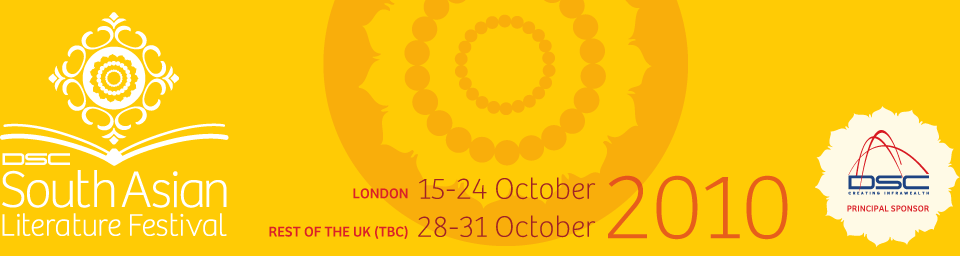
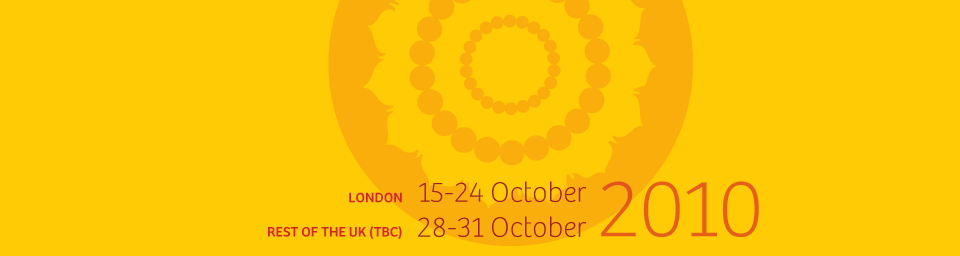
header updated pre-tweet count addition

diff --git a/salf/style/css/layout.css b/salf/style/css/layout.css
@@ -163,15 +163,17 @@ h1, h2, h3, h4,h5,h6{
 
 #header{
 	height: 265px;
+	width: 960px;
 	padding: 0;
 	border-bottom: 1px white solid;
+	background: url('../images/header.png') no-repeat;
+	_background: url('../images/header-IE.png') no-repeat;
 }
 #header h1{
 	float: left;
-	background: url('../images/header.png') no-repeat;
-	_background: url('../images/header-IE.png') no-repeat;
+	
 	height: 256px;
-	width: 960px;
+
 }
 #header h1 a span, #header p{
 	display: none;

diff --git a/salf/functions.php b/salf/functions.php
@@ -114,5 +114,51 @@ function getTinyUrl($url)
 }
 
 
+/*function tweetmeme(){
+?>
+<div style="float: right; margin: 5px 0 15px 15px;">
+<script type="text/javascript">
+tweetmeme_url = '<?php the_permalink(); ?>';
+</script>
+<script type="text/javascript" src="http://tweetmeme.com/i/scripts/button.js"></script>
+</div>
+<?php
+}//*/
 
+/*
+Get Twitter Followers
+
+function curl($url)
+{
+$ch = curl_init($url);
+curl_setopt($ch,CURLOPT_RETURNTRANSFER, true);
+curl_setopt($ch,CURLOPT_HEADER, 0);
+curl_setopt($ch,CURLOPT_USERAGENT,"southasianlitfest.com");
+curl_setopt($ch,CURLOPT_TIMEOUT,10);
+$data = curl_exec($ch);
+curl_close($ch);
+return $data;
+}
+function GetTwitterFollowerCount($username)
+{
+$twitter_followers = curl("http://twitter.com/statuses/user_timeline/".$username.".xml?count=1");
+$xml = new SimpleXmlElement($twitter_followers, LIBXML_NOCDATA);
+return $xml->status->user->followers_count;
+}
+
+echo GetTwitterFollowerCount("YourTwitterName");
+
+
+//Alterate Method
+
+
+$twit = file_get_contents('http://twitter.com/users/show/USERNAME.xml');
+$begin = '<followers_count>'; $end = '</followers_count>';
+$page = $twit;
+$parts = explode($begin,$page);
+$page = $parts[1];
+$parts = explode($end,$page);
+$tcount = $parts[0];
+if($tcount == '') { $tcount = '0'; }
+echo '<div class="twitter-badge"><strong>'.$tcount.' </strong> Followers</div>';//*/
 ?>

diff --git a/salf/holding-page.php b/salf/holding-page.php
@@ -48,7 +48,27 @@ Template Name: Holding Page
 						document.write('<a class="twitter" href="'+twtLink+'" target="_blank"'+'><img src="<?php echo bloginfo('template_url')?>/style/images/social/twitter.png"  border="0" alt="Tweet This!" /'+'><'+'/a>');
 						</script>
 						<noscript><a class="twitter" href="http://twitter.com/home?status=<?php echo getTinyUrl(get_permalink(get_the_ID()));?>" target="_blank"'+'><img src="<?php echo bloginfo('template_url')?>/style/images/social/twitter.png"  border="0" alt="Tweet This!" /></a></noscript>
+					
+						<?php
+						
+							/*
+								Twitter Search -- Incomplete
+							*//*
+						//$url = urlencode(getTinyUrl(get_permalink(get_the_ID())));
+						$url = urlencode('http://fb.me/BJ7WCabv');
+						$file = file_get_contents("http://search.twitter.com/search?q=".$url);
+						$file = strip_tags($file);
 
+						echo "--"."http://search.twitter.com/search?q=".$url."--";
+						echo count($matches[0]);
+						print_r($file);
+						
+							/*
+								Twitter Search -- Incomplete
+							*/
+						?>
+						
+						
 						<span class="facebook-connect">
 						<a href=# target="_blank" class="facebook"><img src="<?php echo bloginfo('template_url')?>/style/images/social/facebook.png" width="16" height="16" alt="Facebook" /></a>
 						<div id="fb-root"></div>

diff --git a/salf/header.php b/salf/header.php
@@ -101,8 +101,16 @@ xmlns:fb="http://www.facebook.com/2008/fbml" <?php language_attributes(); ?>>
 		</script>
 		<noscript>This site works best with Javascript turned on. Certain things may look different with it turned off.</noscript>
 		<div id="header">
-		<h1><a href="<?php echo get_option('home'); ?>/"><span><?php bloginfo('name'); ?></span></a></h1>
-		<p><?php bloginfo('description'); ?></p>
+		<h1 style="float: left;">
+			<a href="<?php echo get_option('home'); ?>/" >
+				<img src="<?php echo bloginfo('template_url');?>/style/images/header_salf_main_logo.png" alt="<?php bloginfo('name'); ?>" />
+			</a>
+		</h1>
+		<h2 style="float: right;">
+			<a href="http://www.dsclimited.com/" >
+				<img src="<?php echo bloginfo('template_url');?>/style/images/header_dsc_main_logo.png" alt="DSC - Principle Sponsor" />
+			</a>
+		</h2>
 			
 				
 			
